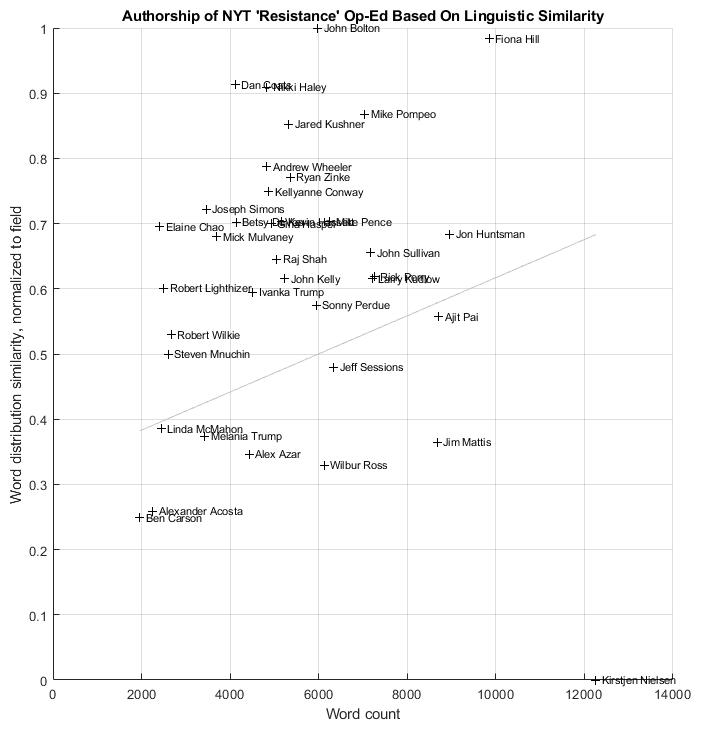
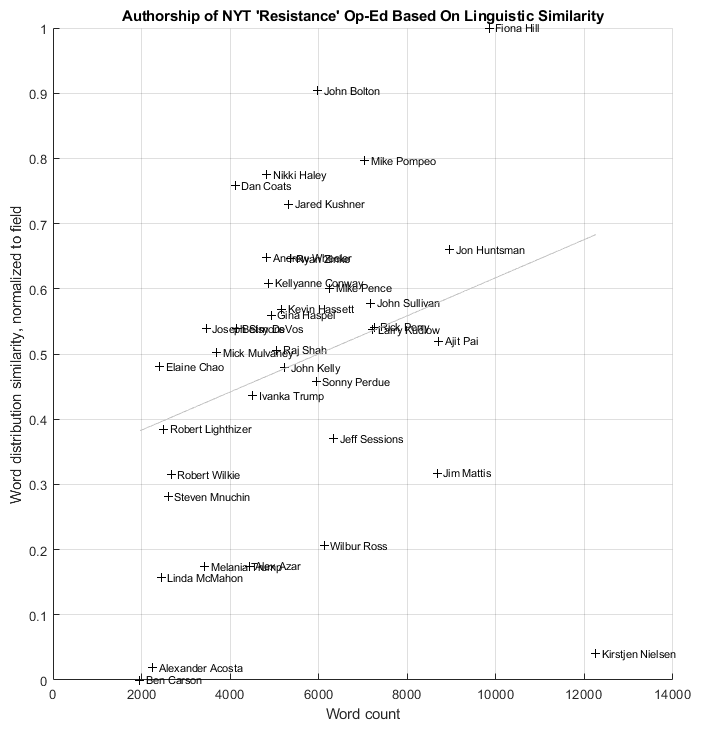
Add files via upload

diff --git a/text_authorship.m b/text_authorship.m
@@ -23,7 +23,7 @@
     col_mmsn = 11; % Markov matrix similarity, normalized to linear fit
     col_dist = 12; % distribution
     col_dssm = 13; % distribution similarity
-    col_dssn = 13; % distribution similarity, normalized to linear fit
+    col_dssn = 14; % distribution similarity, normalized to linear fit
     
 	% Prepare target text
     Trgt{col_name} = 'Anonymous';
@@ -111,8 +111,8 @@
     
     % Markov matrices
     p_mrkv = polyfit(cell2mat(Cndt(:,col_wdct)),cell2mat(Cndt(:,col_mmsm)),1); % linear regression
-    x_mrkv = min(cell2mat(Cndt(:,col_wdct))):max(cell2mat(Cndt(:,col_wdct)));
-    y_mrkv = p_mrkv(1)*x_mrkv + p_mrkv(2);
+    x_arry = min(cell2mat(Cndt(:,col_wdct))):max(cell2mat(Cndt(:,col_wdct)));
+    y_mrkv = p_mrkv(1)*x_arry + p_mrkv(2);
     for cndt = 1:size(Cndt,1)
         Cndt{cndt,col_mmsn} = Cndt{cndt,col_mmsm} - (p_mrkv(1)*Cndt{cndt,col_wdct}+p_mrkv(2)); % vertical distance to linear regression 
     end
@@ -121,8 +121,7 @@
     
     % Distributions
     p_dist = polyfit(cell2mat(Cndt(:,col_wdct)),cell2mat(Cndt(:,col_dssm)),1); % linear regression
-    x_dist = min(cell2mat(Cndt(:,col_wdct))):max(cell2mat(Cndt(:,col_wdct)));
-    y_dist = p_dist(1)*x_dist + p_dist(2);
+    y_dist = p_dist(1)*x_arry + p_dist(2);
     for cndt = 1:size(Cndt,1)
         Cndt{cndt,col_dssn} = Cndt{cndt,col_dssm} - (p_dist(1)*Cndt{cndt,col_wdct}+p_dist(2)); % vertical distance to linear regression 
     end
@@ -158,7 +157,7 @@
     xlabel('Word count')
     ylabel('Markov matrix similarity, normalized to field')
     grid on
-    plot(x_mrkv,y_mrkv,'color',zeros(1,3)+0.75)
+    plot(x_arry,y_mrkv,'color',zeros(1,3)+0.75)
     
     figure(3)
     Cndt = sortrows(Cndt,col_mmsn);
@@ -184,7 +183,7 @@
     xlabel('Word count')
     ylabel('Word distribution similarity, normalized to field')
     grid on
-    plot(x_dist,y_dist,'color',zeros(1,3)+0.75)
+    plot(x_arry,y_dist,'color',zeros(1,3)+0.75)
     
     figure(6)
     Cndt = sortrows(Cndt,col_dssn);
